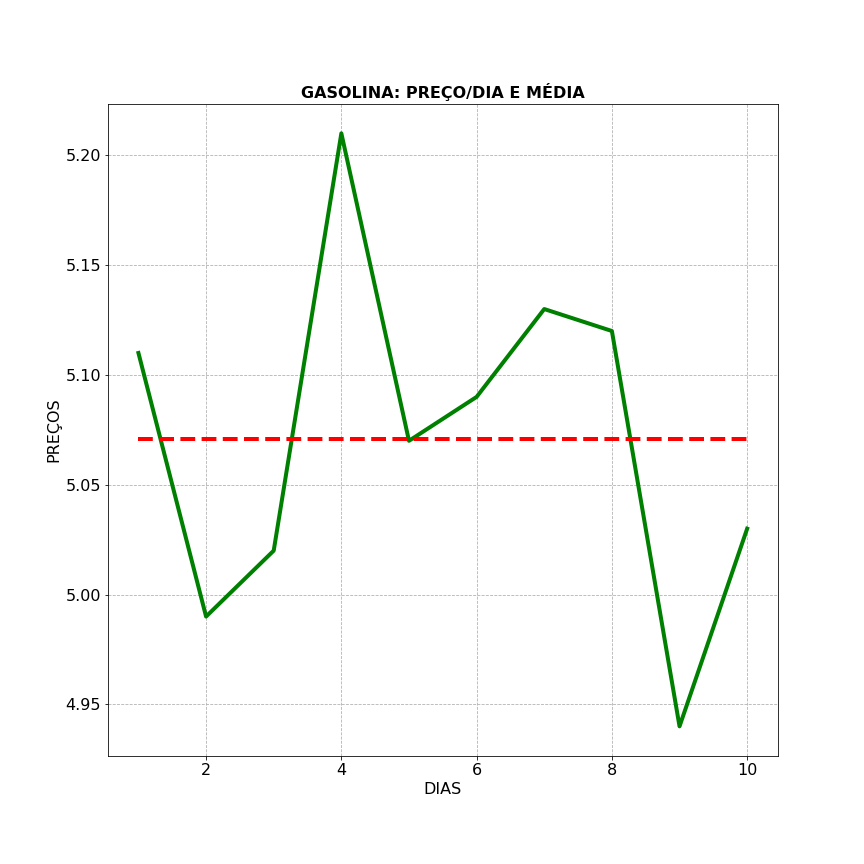
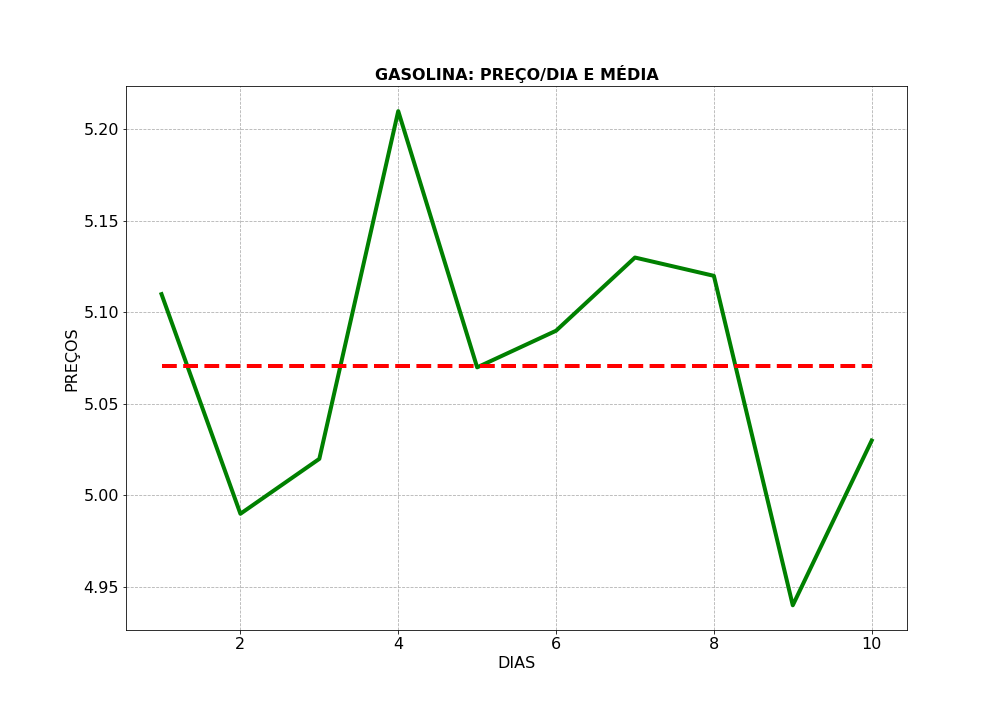
new branch

diff --git a/python_code_gasolina.py b/python_code_gasolina.py
@@ -4,7 +4,7 @@ import matplotlib.pyplot as plt
 gas_df = pd.read_csv('gasolina.csv')
 gas_df.head(3)
 
-plt.figure(figsize=(12,12))
+plt.figure(figsize=(14,10))
 plt.plot(gas_df['dia'], 
          gas_df['venda'], 
          lw=4, c='green')
